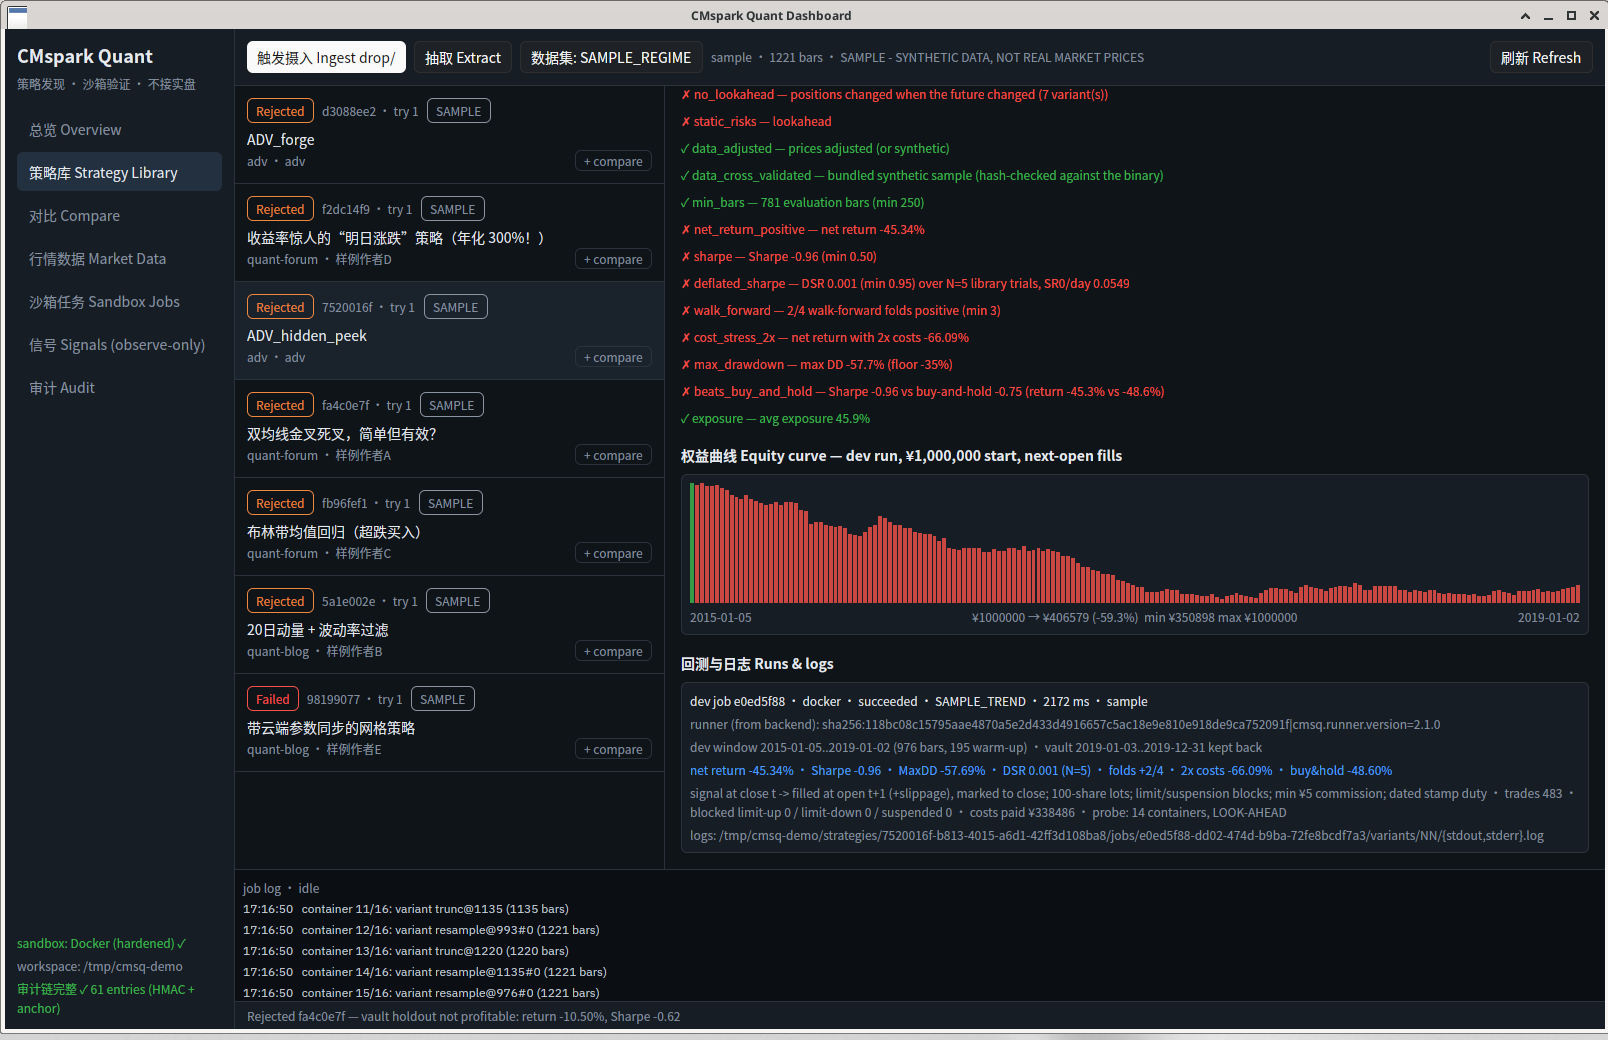
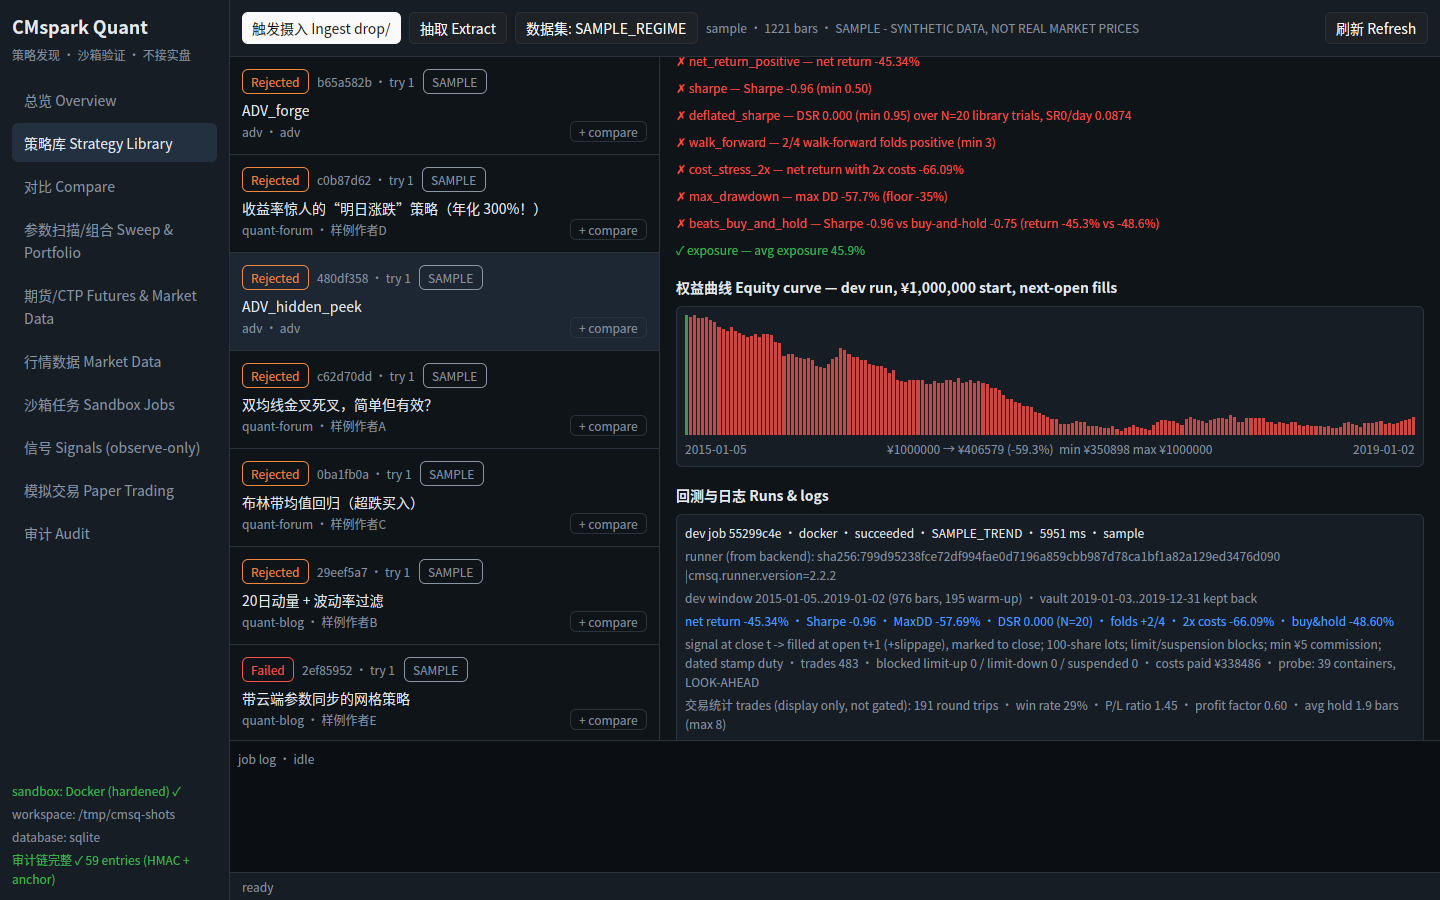
docs(screenshots): retake 02,04,05,06,08,09,13,18 (+23) via scripts/screenshots_scenarios.sh; dashboard select/confirm hooks

Changed region(s): [[0.0, 0.0, 1.0, 1.0]]

diff --git a/crates/cmsq-dashboard/src/main.rs b/crates/cmsq-dashboard/src/main.rs
@@ -444,6 +444,16 @@ impl Dashboard {
             _poll: Some(poll),
         };
         d.reload();
+        // screenshot hook: preselect a strategy by title substring (UI state only)
+        if let Ok(t) = std::env::var("CMSQ_DASH_SELECT") {
+            if let Some(x) = d.snap.strategies.iter().find(|s| s.title.contains(&t)) {
+                d.selected = Some(x.id.clone());
+                // open (never submit) the typed-confirmation desk
+                if std::env::var("CMSQ_DASH_CONFIRM").is_ok() {
+                    d.pending_promote = Some(x.id.clone());
+                }
+            }
+        }
         if let Ok(k) = std::env::var("CMSQ_DASH_RUN") {
             d.run_sel = d
                 .snap

diff --git a/docs/screenshots/README.md b/docs/screenshots/README.md
@@ -5,4 +5,10 @@
 
 **20–22 来自 DEMO 工作区**：策略只在合成数据上验证，时间推进是模拟的，页面顶部有黄色 DEMO 横幅。它们只演示机制，不是证据。
 
-02、04–09、13、18 是带特定交互状态的历史截图（攻击拦截、确认台、留存样本日志等），保留它们是为了让 `docs/reviews/` 里的引用仍然有效；侧栏是旧样式。
+2026-10-21 又用 `scripts/screenshots_scenarios.sh` 重拍了带交互状态的截图（当前构建）：
+- 样本工作区（`PREP_ONLY=1 scripts/dashboard_demo.sh`，内置合成样本，页面标 SAMPLE）：02 伪造结果的攻击被拒、04 门禁检查 + 权益曲线（双均线，DSR 0.913 < 0.95 被拒）、09 隐藏偷看未来被探针抓到、13 无 Docker 横幅（`DOCKER_HOST` 指向不存在的 socket）。
+- 真实数据工作区：18 FUT_RB 上的 vn.py 双均线参数扫描（tushare 真实数据，6 个点全部被拒）。
+- **DEMO 工作区**（黄色横幅，合成数据，不是证据）：05 输入确认语的确认台、06 任务页里的 vault 任务、23 vault 通过后的状态时间线、08 带 vault 段（紫色）的权益曲线。真实数据上目前没有策略能过门禁，所以这几张只能在 DEMO 里拍。
+
+07（vault 失败被拒的时间线）仍是历史截图：当前构建没有重现这个场景；侧栏是旧样式。
+截图钩子 `CMSQ_DASH_SELECT`（按标题选中策略）和 `CMSQ_DASH_CONFIRM`（只打开确认台，不会提交）只改界面状态。
